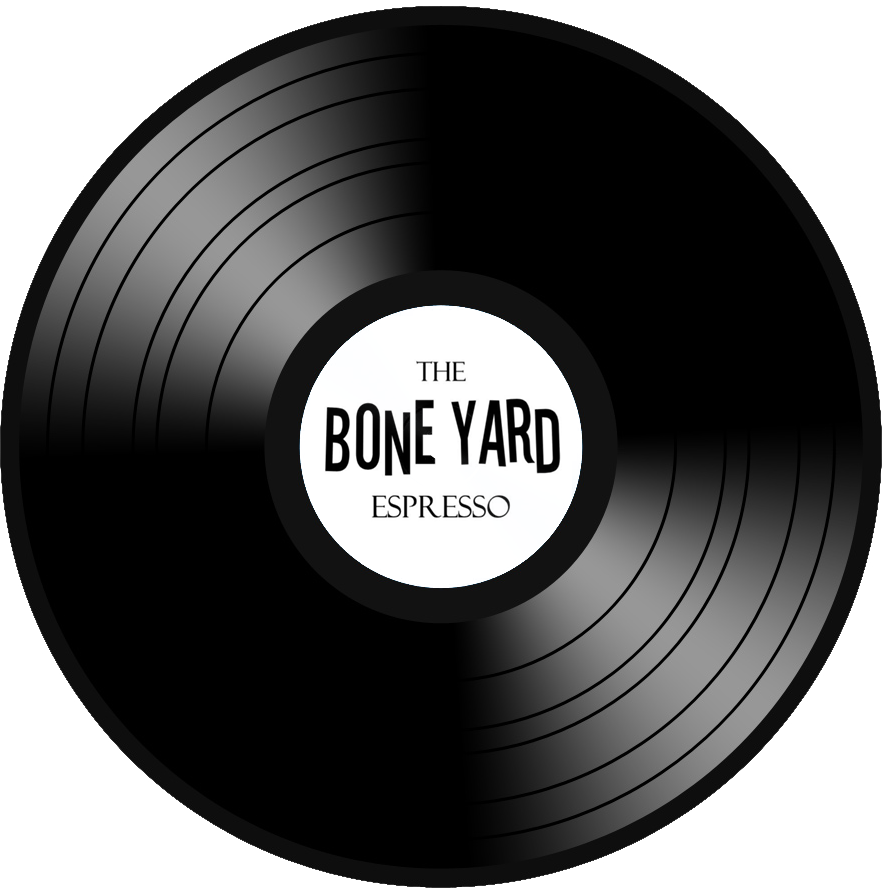
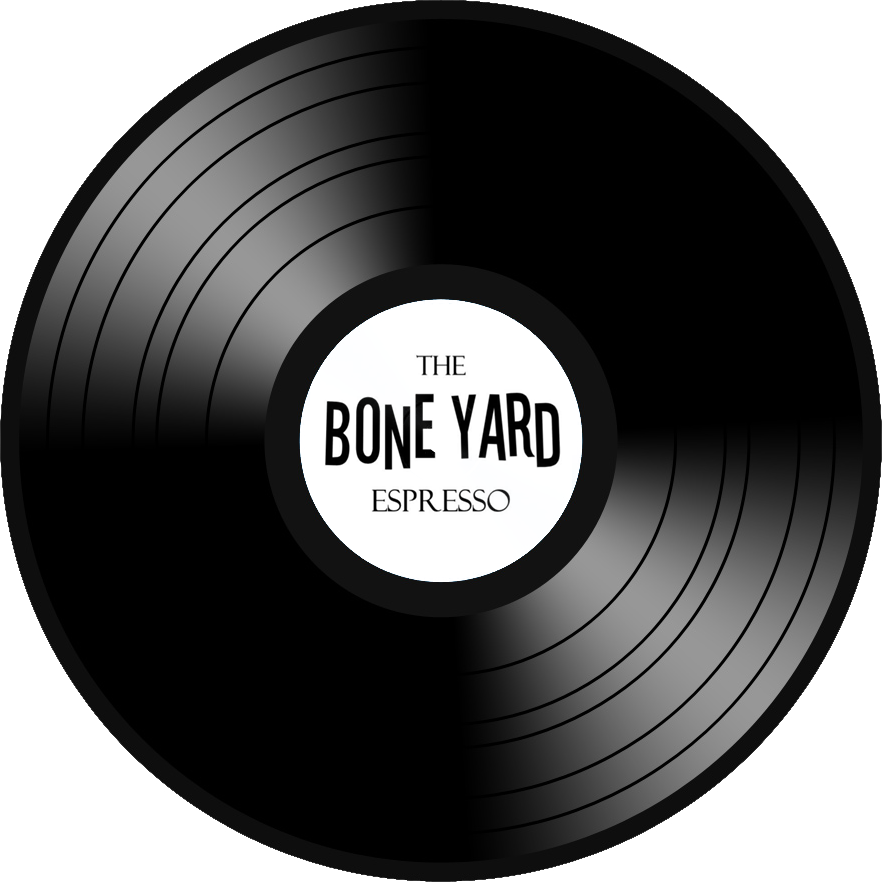
About section done

diff --git a/src/components/IndexSections/About.js b/src/components/IndexSections/About.js
@@ -1,11 +1,10 @@
 import * as React from "react";
-import { useRef, useState, useEffect } from "react";
-import ReactDOM from 'react-dom';
+import { useRef, useState } from "react";
+import { useSpring, animated } from 'react-spring';
 import { ParallaxLayer } from '@react-spring/parallax';
-import { useSpring, animated, config, to } from 'react-spring';
 import { Fade } from 'react-slideshow-image';
-import 'react-slideshow-image/dist/styles.css'
 
+import 'react-slideshow-image/dist/styles.css'
 import styles from '../../styles/global.css';
 
 import slide0 from "../../assets/images/AboutSlideshow/0.jpg";
@@ -14,16 +13,18 @@ import slide2 from "../../assets/images/AboutSlideshow/2.jpg";
 import slide3 from "../../assets/images/AboutSlideshow/3.jpg";
 import record from "../../assets/images/AboutSlideshow/record.png";
 
+import coffee from "../../assets/images/coffeeIcon.png";
+import community from "../../assets/images/communityIcon.png";
+import sustainability from "../../assets/images/sustainabilityIcon.png";
+
 const offBlack = "#1f1d1e";
 const offWhite = "#f4f4f9";
 
-
-const calc = (x, y, rect) => [
+const calcSleeveTransform = (x, y, rect) => [
     -(y - rect.top - rect.height / 2) / 5,
     (x - rect.left - rect.width / 2) / 5,
     1.4
 ];
-const trans = (x, y, s) => `perspective(100vw) rotateX(${x}deg) rotateY(${y}deg) scale(${s})`;
 
 export const About = () => {
 
@@ -31,23 +32,15 @@ export const About = () => {
 
     const [isHovered, setIsHovered] = useState(false);
 
-    const [recordDelay, setRecordDelay] = useState(0);
-    const sleeveDelayTime = 500
+    const sleeveDelayTime = 400
     const [sleeveDelay, setSleeveDelay] = useState(sleeveDelayTime);
 
-    const [xys, setXYS] = useState([0, 0, 1]);
-    const sleeveSpring = useSpring({ xys, delay: sleeveDelay });
+    const [sleeveXYS, setSleeveXYS] = useState([0, 0, 1]);
+    const sleeveSpring = useSpring({ sleeveXYS, delay: sleeveDelay });
 
     const [recordTRS, setRecordTRS] = useState([0, 0, 1]);
-    const recordSpring = useSpring({ recordTRS, delay: recordDelay });
+    const recordSpring = useSpring({ recordTRS });
 
-    const recordStyle = useSpring({
-        to: [
-            { opacity: 1, transform: `translateX(-${recordTRS[0]}%) rotate(${recordTRS[1]}deg) scale(${recordTRS[2]}, ${recordTRS[2]})` },
-            { opacity: 0, transform: `translateX(-${recordTRS[0]}%) rotate(${recordTRS[1]}deg) scale(${recordTRS[2]}, ${recordTRS[2]})` },
-        ],
-        from: { opacity: 1, transform: `translateX(-${recordTRS[0]}%) rotate(${recordTRS[1]}deg) scale(${recordTRS[2]}, ${recordTRS[2]})` }
-    })
 
     return (
         <div
@@ -75,8 +68,8 @@ export const About = () => {
                     style={{
                         width: "90%",
                         height: "85%",
-                        alignSelf: "center",
                         display: "flex",
+                        alignSelf: "center",
                     }}
                 >
                     <div
@@ -90,30 +83,156 @@ export const About = () => {
                     >
                         <h3
                             style={{
-                                fontSize: "5vw",
-                                fontFamily: "Oswald",
-                                marginBottom: 0,
                                 marginTop: 0,
+                                marginBottom: 0,
+                                fontFamily: "Oswald",
+                                fontSize: "5vw",
                             }}
                         >
                             Hello
                         </h3>
+                        <div>
+                            <p
+                                style={{
+                                    width: "100%",
+                                    height: "100%",
+                                    fontSize: "1vw",
+                                }}
+                            >
+                                There's a cool record store and a cool coffee shop next door. IDK, whatever you want to put here Ruby. filler--- Lorem ipsum dolor sit amet, consectetur adipiscing elit, sed do eiusmod tempor incididunt ut labore et dolore magna aliqua. Ut enim ad minim veniam, quis nostrud exercitation ullamco laboris nisi ut aliquip ex ea commodo consequat. Duis aute irure dolor in reprehenderit in voluptate velit esse cillum dolore eu fugiat nulla pariatur. Excepteur sint occaecat cupidatat non proident, sunt in culpa qui officia deserunt mollit anim id est laborum.
+                            </p>
+                        </div>
+                        <h4
+                            style={{
+                                fontSize: "2.5vw",
+                                fontFamily: "Oswald",
+                                marginBottom: "3vh",
+                                textAlign: "center"
+                            }}
+                        >
+                            We Value
+                        </h4>
                         <div
                             style={{
                                 width: "100%",
                                 display: "flex",
-                                fontSize: "1.5vw",
+                                textAlign: "center",
+                                justifyContent: "space-around",
                             }}
                         >
                             <div
                                 style={{
-                                    height: "100%",
-                                    marginBottom: "3.5vh"
+                                    width: "30%",
+                                    display: "flex",
+                                    flexDirection: "column",
                                 }}
                             >
-                                <p> There's a cool record store and a cool coffee shop next door. IDK, whatever you want to put here Ruby. filler--- Lorem ipsum dolor sit amet, consectetur adipiscing elit, sed do eiusmod tempor incididunt ut labore et dolore magna aliqua. Ut enim ad minim veniam, quis nostrud exercitation ullamco laboris nisi ut aliquip ex ea commodo consequat. Duis aute irure dolor in reprehenderit in voluptate velit esse cillum dolore eu fugiat nulla pariatur. Excepteur sint occaecat cupidatat non proident, sunt in culpa qui officia deserunt mollit anim id est laborum.</p>
+                                <img
+                                    src={coffee}
+                                    style={{
+                                        width: "3vw",
+                                        height: "3vw",
+                                        objectFit: "contain",
+                                        alignSelf: "center"
+                                    }}
+                                />
+                                <p
+                                    style={{
+                                        marginTop: "1vh",
+                                        marginBottom: 0,
+                                        fontSize: "1.5vw",
+                                        fontFamily: "Oswald"
+                                    }}
+                                >
+                                    Quality Coffee
+                                </p>
+                                <p
+                                    style={{
+                                        marginTop: "1vh",
+                                        fontSize: "0.75vw",
+                                    }}
+                                >
+                                    Our beans are ethically sourced or something like that.
+                                </p>
+                            </div>
+
+                            <div
+                                style={{
+                                    width: "30%",
+                                    display: "flex",
+                                    flexDirection: "column",
+                                }}
+                            >
+                                <img
+                                    src={sustainability}
+                                    style={{
+                                        width: "3vw",
+                                        height: "3vw",
+                                        objectFit: "contain",
+                                        alignSelf: "center"
+                                    }}
+                                />
+                                <p
+                                    style={{
+                                        marginTop: "1vh",
+                                        marginBottom: 0,
+                                        fontSize: "1.5vw",
+                                        fontFamily: "Oswald"
+                                    }}
+                                >
+                                    Sustainability
+                                </p>
+                                <p
+                                    style={{
+                                        marginTop: "1vh",
+                                        fontSize: "0.75vw",
+                                    }}
+                                >
+                                    We minimise our power usage and waste.??
+                                </p>
+                            </div>
+
+                            <div
+                                style={{
+                                    width: "30%",
+                                    display: "flex",
+                                    flexDirection: "column",
+                                }}
+                            >
+                                <img
+                                    src={community}
+                                    style={{
+                                        width: "3vw",
+                                        height: "3vw",
+                                        objectFit: "contain",
+                                        alignSelf: "center"
+                                    }}
+                                />
+                                <p
+                                    style={{
+                                        marginTop: "1vh",
+                                        marginBottom: 0,
+                                        fontSize: "1.5vw",
+                                        fontFamily: "Oswald"
+                                    }}
+                                >
+                                    Community
+                                </p>
+                                <p
+                                    style={{
+                                        marginTop: "1vh",
+                                        fontSize: "0.75vw",
+                                    }}
+                                >
+                                    We like our neighbours, they're very cool.
+                                </p>
                             </div>
                         </div>
+                        <div
+                            style={{
+                                height:"12vh"
+                            }}
+                        />
                     </div>
                     <div
                         style={{
@@ -125,6 +244,9 @@ export const About = () => {
                             justifyContent: "center"
                         }}
                     >
+                        <animated.div className={"slideshow"} style={{ transform: sleeveSpring.sleeveXYS.to((x, y, s) => `perspective(100vw) rotateX(${x}deg) rotateY(${y}deg) scale(${s})`) }}>
+                            <Slideshow autoplay={!isHovered} />
+                        </animated.div>
                         <div
                             ref={ref}
                             style={{
@@ -132,16 +254,13 @@ export const About = () => {
                                 display: "flex",
                                 alignSelf: "center",
                                 alignItems: "center",
-                                justifyContent: "center"
+                                justifyContent: "center",
                             }}
                         >
-                            <animated.div className={"slideshow"} style={{ transform: sleeveSpring.xys.to(trans) }}>
-                                <Slideshow autoplay={!isHovered} />
-                            </animated.div>
                             <div
                                 style={{
-                                    width: "28vw",
-                                    height: "28vw",
+                                    width: "26vw",
+                                    height: "26vw",
                                     zIndex: 1,
                                 }}
                                 onMouseEnter={async () => {
@@ -149,26 +268,27 @@ export const About = () => {
                                     setRecordTRS([51.5, 180, 1])
 
                                     await new Promise(r => setTimeout(r, sleeveDelayTime));
+                                    setRecordTRS([51.5, 180, 0])
                                     setSleeveDelay(0);
-                                    setRecordDelay(sleeveDelayTime);
                                 }}
                                 onMouseLeave={async () => {
-                                    setXYS([0, 0, 1]);
+                                    setSleeveXYS([0, 0, 1]);
+                                    setRecordTRS([51.5, 180, 1])
                                     setIsHovered(false);
-                                    setRecordTRS([0, 0, 1])
 
                                     await new Promise(r => setTimeout(r, sleeveDelayTime));
+                                    setRecordTRS([0, 0, 1])
                                     setSleeveDelay(sleeveDelayTime);
-                                    setRecordDelay(0);
                                 }}
                                 onMouseMove={(e) => {
                                     const rect = ref.current.getBoundingClientRect();
-                                    setXYS(calc(e.clientX, e.clientY, rect));
+                                    setSleeveXYS(calcSleeveTransform(e.clientX, e.clientY, rect));
                                 }}
                             />
                         </div>
                         <animated.img
                             src={record}
+                            className={"slideshowrecord"}
                             style={{
                                 position: "relative",
                                 left: "25%",
@@ -191,7 +311,7 @@ const Slideshow = (props) => {
             <Fade
                 arrows={false}
                 autoplay={props.autoplay}
-                duration={3000}
+                duration={2500}
                 style={{
                     width: "100%",
                     height: "100%",

diff --git a/src/styles/global.css b/src/styles/global.css
@@ -32,14 +32,18 @@ body {
     background: white;
     border: 0.5vw solid white;
     border-bottom-width: 0.7vw;
-    box-shadow: 0px 10px 30px -5px rgba(0, 0, 0, 0.75);
+    box-shadow: 0px 10px 30px 0px rgba(0, 0, 0, 1);
     transition: box-shadow 0.5s;
     will-change: transform;
     transition-delay: 3s;
     animation-delay: 3s;
 }
+.slideshowrecord{
+    -webkit-filter: drop-shadow(0px 0px 25px rgba(0, 0, 0, 0.5));
+    filter: drop-shadow(0px 0px 25px rgba(0, 0, 0, 0.5));
+}
 .slideshow:hover{
-    box-shadow: 0px 30px 100px -10px rgba(0, 0, 0, 0.5);
+    box-shadow: 0px 30px 100px -5px rgba(0, 0, 0, 0.75);
 }
 @font-face {
     font-family: 'IndieFlower';
